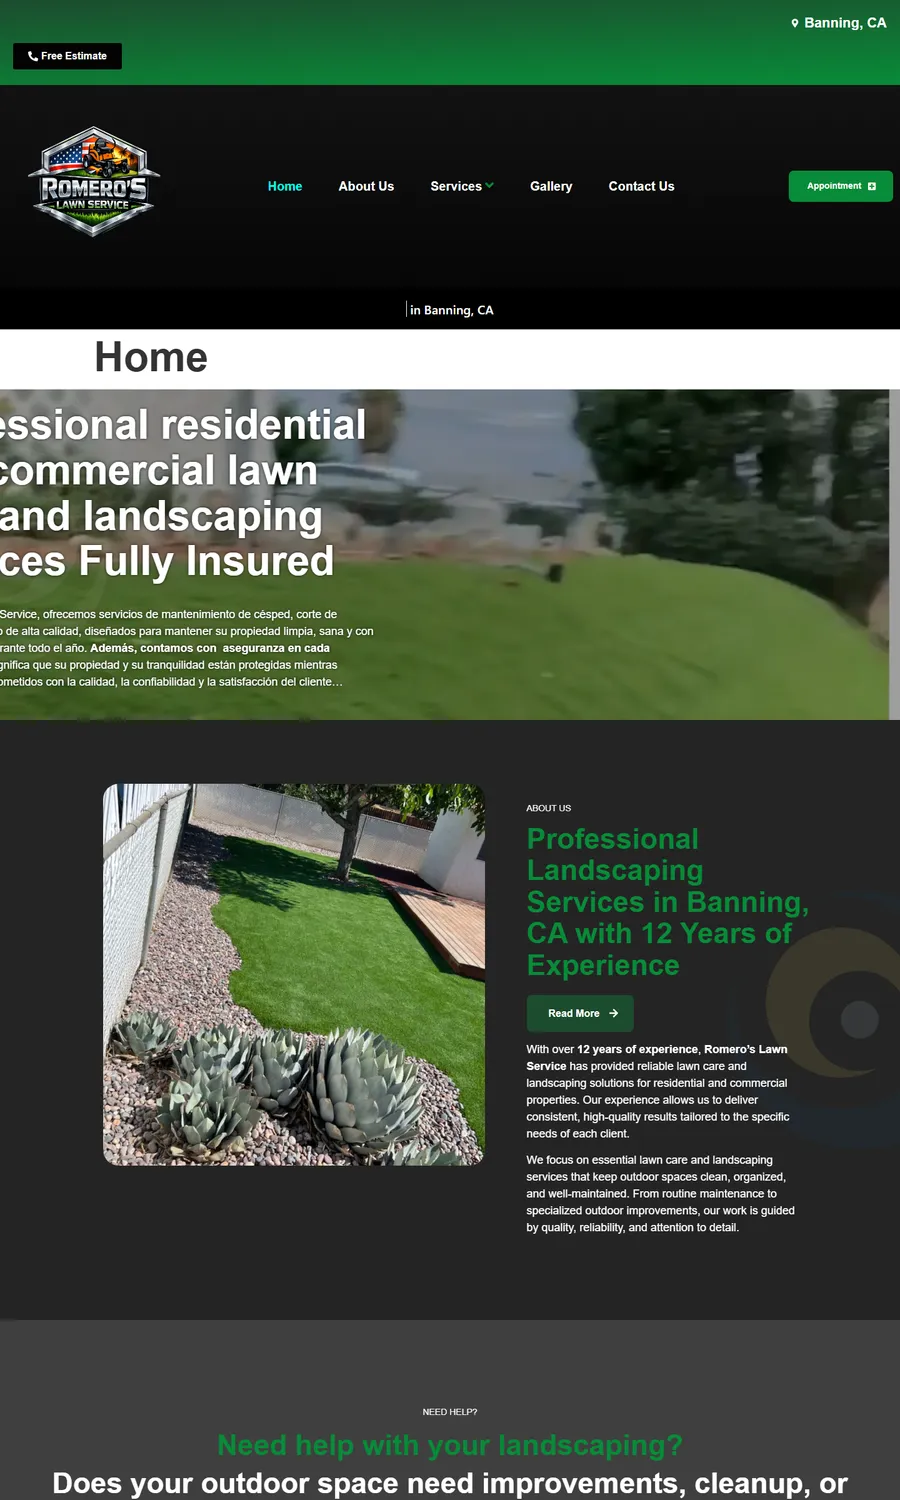
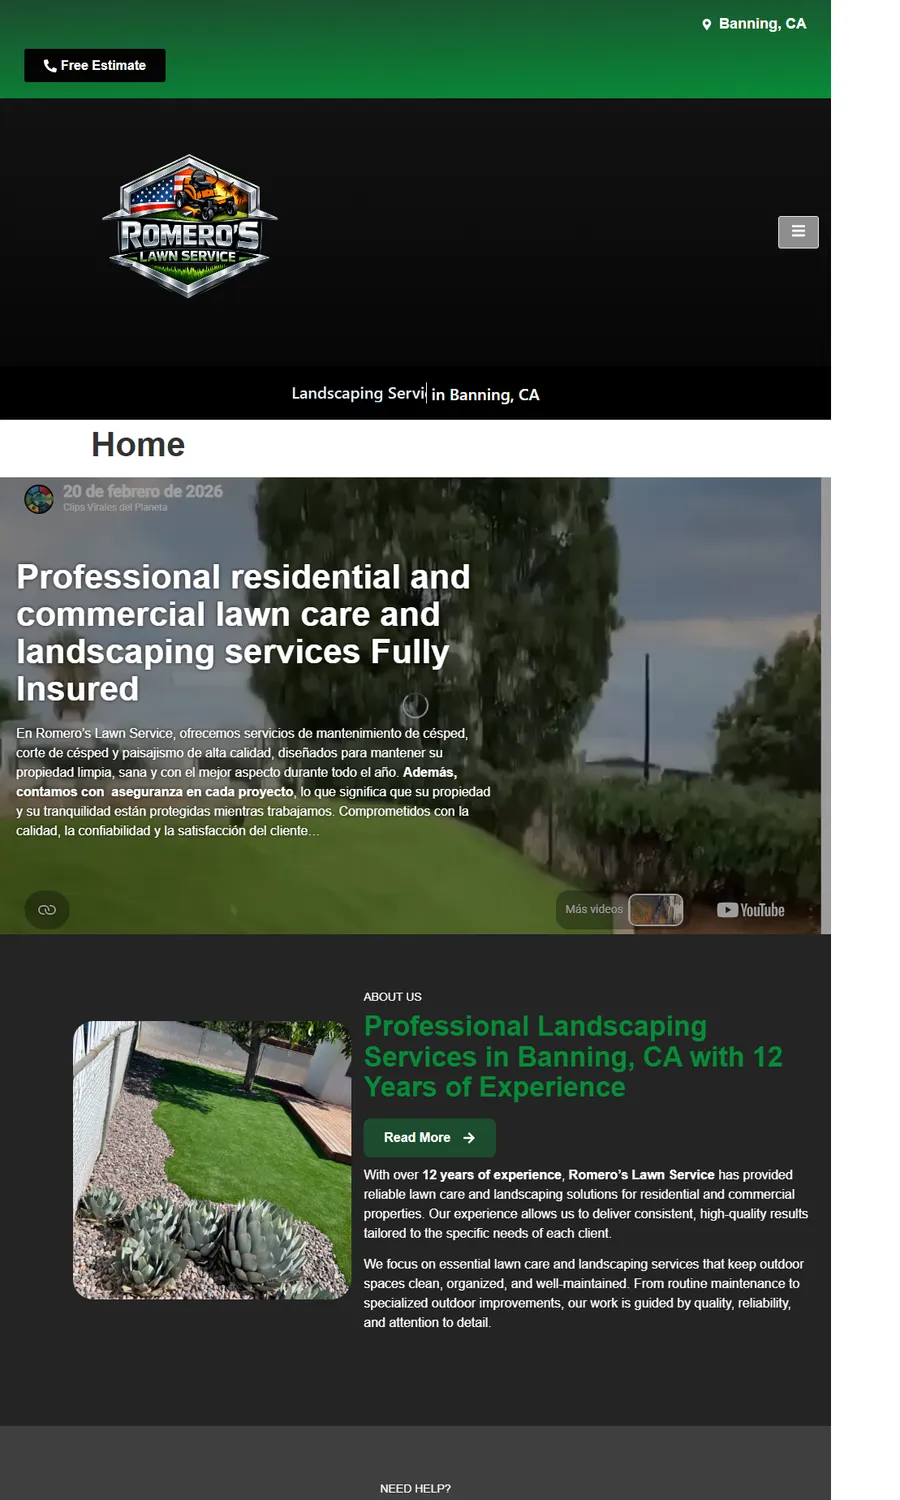
Fase 3: cierra pendientes de proyectos
- NicExplorer: badge "Proyecto propio" (i18n own_project ES/EN).
- Grilla: centra la ultima tarjeta cuando queda impar (5 proyectos
  ya no dejan una tarjeta suelta a la izquierda).
- Romero's: recaptura sin el titular cortado por la izquierda.

diff --git a/css/estilos.css b/css/estilos.css
@@ -1016,6 +1016,16 @@ html:not([data-theme='dark']) .icono-sol {
   gap: 28px;
 }
 
+/* Si el número de proyectos es impar, la última queda sola: la centramos
+   con el mismo ancho que las demás (solo con la grilla de 2 columnas) */
+@media (min-width: 721px) {
+  .proyecto:last-child:nth-child(odd) {
+    grid-column: 1 / -1;
+    max-width: calc(50% - 14px);
+    margin-inline: auto;
+  }
+}
+
 /* La tarjeta externa da la perspectiva y la sombra (drop-shadow no se recorta con clip-path) */
 .proyecto {
   --i: 0;
@@ -1256,11 +1266,37 @@ html[data-theme='dark'] .proyecto:focus-within {
   padding: 24px 26px 28px;
 }
 
+.proyecto__meta {
+  display: flex;
+  align-items: center;
+  flex-wrap: wrap;
+  gap: 8px 10px;
+  margin-bottom: 6px;
+}
+
+.proyecto__meta .proyecto__sector {
+  margin-bottom: 0;
+}
+
 .proyecto__sector {
   margin-bottom: 6px;
   color: var(--brand);
   font-size: 0.86rem;
   font-weight: 600;
+}
+
+/* Distintivo para proyectos hechos por iniciativa propia del estudio */
+.proyecto__propio {
+  display: inline-flex;
+  align-items: center;
+  padding: 2px 10px;
+  border-radius: 999px;
+  background: var(--brand-tinte);
+  color: var(--brand);
+  font-size: 0.74rem;
+  font-weight: 700;
+  letter-spacing: 0.01em;
+  white-space: nowrap;
 }
 
 .proyecto h3 {

diff --git a/js/app.js b/js/app.js
@@ -104,6 +104,7 @@ const TRAD = {
     projects_sub: 'Sitios reales que hemos construido. Haz clic en cualquiera para visitarlo.',
     visit_site: 'Visitar sitio',
     new_tab: '(se abre en una pestaña nueva)',
+    own_project: 'Proyecto propio',
     p1_sector: 'Limpieza comercial',
     p1_title: 'Warriors of the Order',
     p1_desc: 'Sitio corporativo para una empresa de limpieza en Carlsbad, California, con una página por servicio y solicitud de cotizaciones.',
@@ -226,6 +227,7 @@ const TRAD = {
     projects_sub: "Real sites we've built. Click any of them to visit it.",
     visit_site: 'Visit site',
     new_tab: '(opens in a new tab)',
+    own_project: 'In-house project',
     p1_sector: 'Commercial cleaning',
     p1_title: 'Warriors of the Order',
     p1_desc: 'Corporate site for a cleaning company in Carlsbad, California, with a page for each service and quote requests.',

diff --git a/index.html b/index.html
@@ -361,7 +361,10 @@
                 </div>
               </div>
               <div class="proyecto__cuerpo">
-                <span class="proyecto__sector" data-i18n="p3_sector">Turismo</span>
+                <div class="proyecto__meta">
+                  <span class="proyecto__sector" data-i18n="p3_sector">Turismo</span>
+                  <span class="proyecto__propio" data-i18n="own_project">Proyecto propio</span>
+                </div>
                 <h3><span data-i18n="p3_title">NicExplorer</span><svg class="i proyecto__flecha" width="20" height="20" aria-hidden="true"><use href="#i-externo"/></svg></h3>
                 <p data-i18n="p3_desc">Plataforma de turismo para descubrir hospedajes, restaurantes y experiencias verificadas en Nicaragua, con reservas por WhatsApp.</p>
                 <ul class="etiquetas"><li>PHP</li><li>MySQL</li><li>Leaflet.js</li></ul>
